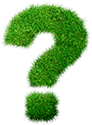
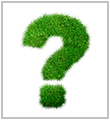
Login

diff --git a/app/webroot/css/sisagro.default.css b/app/webroot/css/sisagro.default.css
@@ -61,6 +61,21 @@ body {
     min-height: 25px;
 }
 
+#naologado {
+    width: 100%;
+    height: auto;
+    min-height: 30px;
+    background: #FFFFFF;
+    -moz-border-radius: 10px 10px 0 0; 
+    -webkit-border-radius: 10px 10px 0 0;
+    border-radius: 10px 10px 0 0;
+}
+
+#naologado img {
+    margin-top: 35px;
+    margin-left: 40px;
+}
+
 #topo {
     width: 100%;
     height: auto;

diff --git a/app/Model/Usergroupempresa.php b/app/Model/Usergroupempresa.php
@@ -1,5 +1,7 @@
 <?php
+
 App::uses('AppModel', 'Model');
+
 /**
  * Usergroupempresa Model
  *
@@ -8,83 +10,64 @@ App::uses('AppModel', 'Model');
  * @property Group $Group
  */
 class Usergroupempresa extends AppModel {
+    
+    /**
+     * Validation rules
+     *
+     * @var array
+     */
+    public $validate = array(
+        'user_id' => array(
+            'numeric' => array(
+                'rule' => array('numeric'),
+            ),
+        ),
+        'empresa_id' => array(
+            'numeric' => array(
+                'rule' => array('numeric'),
+            ),
+        ),
+        'group_id' => array(
+            'numeric' => array(
+                'rule' => array('numeric'),
+            ),
+        ),
+        'empresaboot' => array(
+            'numeric' => array(
+                'rule' => array('numeric'),
+            ),
+        ),
+    );
 
-/**
- * Validation rules
- *
- * @var array
- */
-	public $validate = array(
-		'user_id' => array(
-			'numeric' => array(
-				'rule' => array('numeric'),
-				//'message' => 'Your custom message here',
-				//'allowEmpty' => false,
-				//'required' => false,
-				//'last' => false, // Stop validation after this rule
-				//'on' => 'create', // Limit validation to 'create' or 'update' operations
-			),
-		),
-		'empresa_id' => array(
-			'numeric' => array(
-				'rule' => array('numeric'),
-				//'message' => 'Your custom message here',
-				//'allowEmpty' => false,
-				//'required' => false,
-				//'last' => false, // Stop validation after this rule
-				//'on' => 'create', // Limit validation to 'create' or 'update' operations
-			),
-		),
-		'group_id' => array(
-			'numeric' => array(
-				'rule' => array('numeric'),
-				//'message' => 'Your custom message here',
-				//'allowEmpty' => false,
-				//'required' => false,
-				//'last' => false, // Stop validation after this rule
-				//'on' => 'create', // Limit validation to 'create' or 'update' operations
-			),
-		),
-		'empresaboot' => array(
-			'numeric' => array(
-				'rule' => array('numeric'),
-				//'message' => 'Your custom message here',
-				//'allowEmpty' => false,
-				//'required' => false,
-				//'last' => false, // Stop validation after this rule
-				//'on' => 'create', // Limit validation to 'create' or 'update' operations
-			),
-		),
-	);
+    //The Associations below have been created with all possible keys, those that are not needed can be removed
 
-	//The Associations below have been created with all possible keys, those that are not needed can be removed
+    /**
+     * belongsTo associations
+     *
+     * @var array
+     */
+    public $belongsTo = array(
+        'User' => array(
+            'className' => 'User',
+            'foreignKey' => 'user_id',
+            'conditions' => '',
+            'fields' => '',
+            'order' => ''
+        ),
+        'Empresa' => array(
+            'className' => 'Empresa',
+            'foreignKey' => 'empresa_id',
+            'conditions' => '',
+            'fields' => '',
+            'order' => ''
+        ),
+        'Group' => array(
+            'className' => 'Group',
+            'foreignKey' => 'group_id',
+            'conditions' => '',
+            'fields' => '',
+            'order' => ''
+        )
+    );
 
-/**
- * belongsTo associations
- *
- * @var array
- */
-	public $belongsTo = array(
-		'User' => array(
-			'className' => 'User',
-			'foreignKey' => 'user_id',
-			'conditions' => '',
-			'fields' => '',
-			'order' => ''
-		),
-		'Empresa' => array(
-			'className' => 'Empresa',
-			'foreignKey' => 'empresa_id',
-			'conditions' => '',
-			'fields' => '',
-			'order' => ''
-		),
-		'Group' => array(
-			'className' => 'Group',
-			'foreignKey' => 'group_id',
-			'conditions' => '',
-			'fields' => '',
-			'order' => ''
-		)
-	);
 }

diff --git a/app/Controller/UsersController.php b/app/Controller/UsersController.php
@@ -7,6 +7,19 @@ App::uses('AppController', 'Controller');
  */
 class UsersController extends AppController {
     
+    public function isAuthorized($user) {
+        
+        return true;
+        
+    }
+    
+    
+    public function beforeFilter() {
+//        $this->Auth->allow('*');
+//        parent::beforeFilter();
+        $this->set('title_for_layout', 'Usuários');
+    }
+    
     public $paginate = array(
         'order' => array('nome' => 'asc')
     );
@@ -15,7 +28,25 @@ class UsersController extends AppController {
         $this->User->recursive = 0;
         $this->set('users', $this->paginate());
     }
-
+    
+    public function login() {
+        if ($this->request->is('post')) {
+            if ($this->Auth->login()) {
+                // testa se existe um perfil pra ele em uma empresa
+                
+                CakeSession::write('nomeEmpresa', $this->Session->read('Auth.User.nome'));
+                CakeSession::write('empresa_id', '10');
+                $this->redirect($this->Auth->redirect());
+            } else {
+                $this->Session->setFlash('Usuário ou senha incorretos.', 'default', array('class' => 'mensagem_erro'));
+            }
+        }
+    }
+    
+    public function logout() {
+        $this->redirect($this->Auth->logout());
+    }
+    
     public function view($id = null) {
         $this->User->id = $id;
         if (!$this->User->exists()) {
@@ -37,6 +68,7 @@ class UsersController extends AppController {
         
         if ($this->request->is('post')) {
             $this->User->create();
+            $this->request->data['User']['username'] = $this->request->data['User']['email'];
             if ($this->User->save($this->request->data)) {
                 $this->Session->setFlash('Usuário salvo com sucesso.', 'default', array('class' => 'mensagem_sucesso'));
                 $this->redirect(array('action' => 'index'));

diff --git a/app/Controller/AppController.php b/app/Controller/AppController.php
@@ -32,4 +32,34 @@ App::uses('Controller', 'Controller');
  * @link		http://book.cakephp.org/2.0/en/controllers.html#the-app-controller
  */
 class AppController extends Controller {
+    
+    public $components = array(
+        'Session',
+        'Auth' => array(
+            'loginRedirect' => array('controller' => 'homes', 'action' => 'index'),
+            'logoutRedirect' => array('controller' => 'users', 'action' => 'login'),
+            'authorize' => array('Controller')
+        )
+    );
+    
+    public function isAuthorized($user) {
+        
+        return true;
+        
+        
+//        if($user['username'] == 'fulano@gmail.com') {
+//            return true;
+//        }
+//        if (isset($user['role']) && $user['role'] === 'admin') {
+//            return true;
+//        }
+//        return true;
+    }
+    
+    public function beforeFilter() {
+//        $teste = CakeSession::read('Teste');
+//        debug($teste);
+    }
+
+    
 }

diff --git a/app/Controller/GroupsController.php b/app/Controller/GroupsController.php
@@ -7,8 +7,30 @@ App::uses('AppController', 'Controller');
  */
 class GroupsController extends AppController {
     
-    function beforeFilter() {
+    public function beforeFilter() {
         $this->set('title_for_layout', 'Grupos');
+    }
+    
+    public function isAuthorized($user) {
+        // All registered users can add posts
+        if ($this->action === 'index') {
+            return true;
+        } else {
+            return false;
+        }
+
+        // The owner of a post can edit and delete it
+//        if (in_array($this->action, array('edit', 'delete'))) {
+//            debug($user);
+//            die();
+//            
+//            $postId = $this->request->params['pass'][0];
+//            if ($this->Post->isOwnedBy($postId, $user['id'])) {
+//                return true;
+//            }
+//        }
+
+        return parent::isAuthorized($user);
     }
     
     public $paginate = array(

diff --git a/app/Controller/UsergroupempresasController.php b/app/Controller/UsergroupempresasController.php
@@ -6,15 +6,14 @@ App::uses('AppController', 'Controller');
  * Usergroupempresas Controller
  */
 class UsergroupempresasController extends AppController {
-
-    function beforeFilter() {
-        $this->set('title_for_layout', 'Víncular perfil');
+        
+    public function beforeFilter() {
+        $this->set('title_for_layout', 'Perfil');
     }
     
     public $paginate = array(
         'order' => array('User.nome' => 'asc')
     );
-    
     
     /**
      * index method
@@ -25,7 +24,7 @@ class UsergroupempresasController extends AppController {
         $this->Usergroupempresa->recursive = 0;
         $this->set('usergroupempresas', $this->paginate());
     }
-
+    
     /**
      * view method
      *

diff --git a/app/Model/User.php b/app/Model/User.php
@@ -21,7 +21,6 @@ class User extends AppModel {
         return true;
     }
     
-    
     /**
      * Validation rules
      */
@@ -29,6 +28,11 @@ class User extends AppModel {
         'email' => array(
             'email' => array(
                 'rule' => array('email'),
+            ),
+        ),
+        'username' => array(
+            'notempty' => array(
+                'rule' => array('notempty'),
             ),
         ),
         'password' => array(

diff --git a/app/Model/Group.php b/app/Model/Group.php
@@ -6,7 +6,7 @@ App::uses('AppModel', 'Model');
  * Group Model
  */
 class Group extends AppModel {
-
+    
     /**
      * Validation rules
      */
